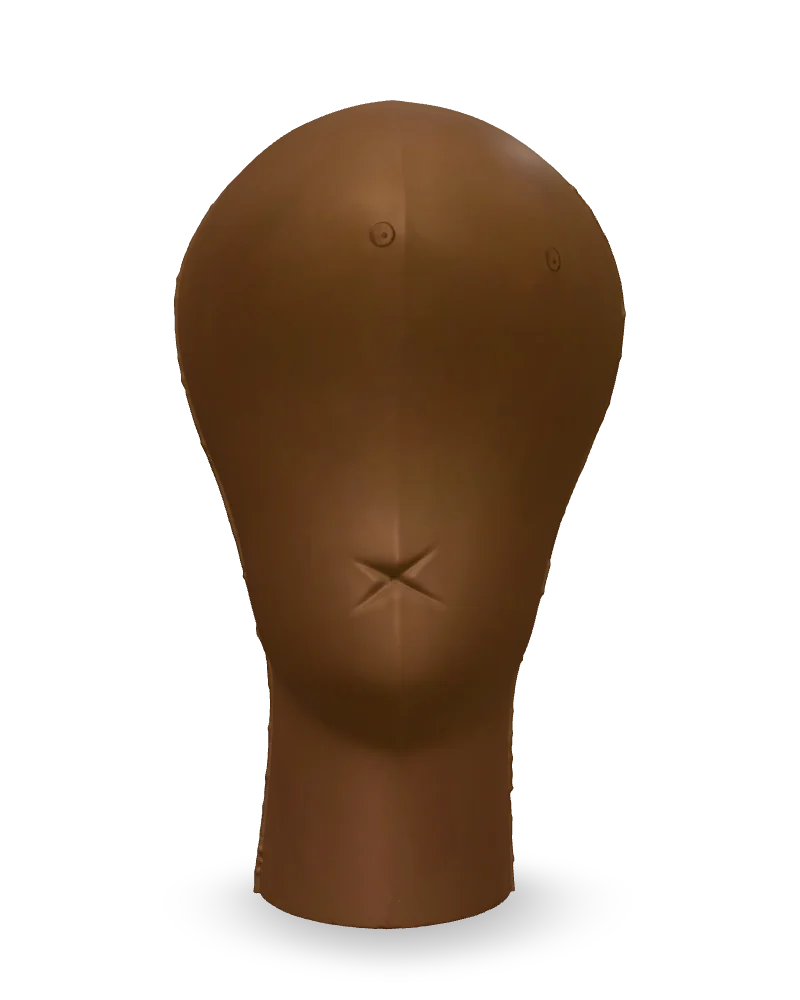
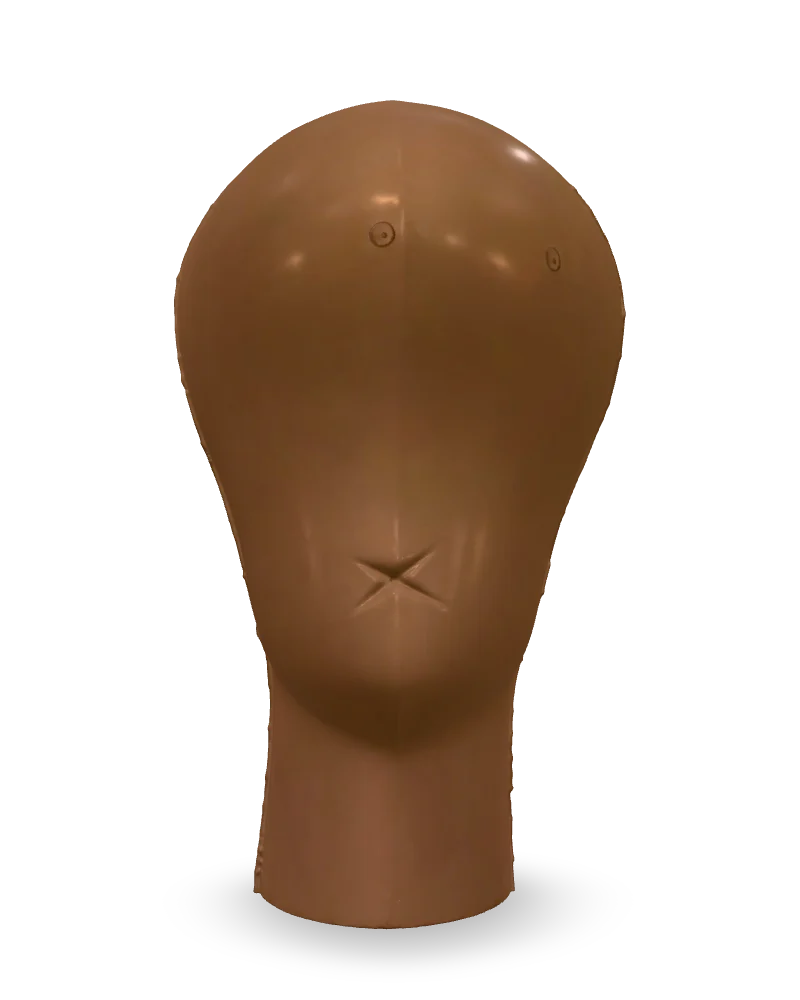
Head with a Cross: new look from the look lab
Thumbnail rebuilt with it.

diff --git a/lib/sculptures.ts b/lib/sculptures.ts
@@ -991,7 +991,7 @@ export const sculptures: Sculpture[] = [
     artistSlug: "himmat-shah",
     thumbnail: "/thumbnails/shah-head-with-a-cross.webp",
     modelUrl: "/sculptures/shah-head-with-a-cross.glb",
-    look: { metalness: 0.15, roughness: 1.5, reflections: 0.6 },
+    look: { metalness: 0.05, roughness: 0.75, reflections: 0.6, light: 1.5, sideLights: 0.5 },
     material: "Bronze",
     year: "",
     dimensions: "50 × 28 × 31 inches",
